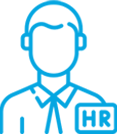
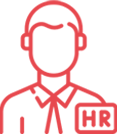
Add files via upload

Changed region(s): [[0.0, 0.0, 1.0, 1.0], [0.1538, 0.8657, 0.2308, 1.0]]

diff --git a/css/style.css b/css/style.css
@@ -16,7 +16,7 @@ a{
 .home-btn a{
     font-family: 'Poppins', sans-serif;
     font-weight: 500;
-    background: #04a6e1;
+    background: #8d8d8d;
     color: #fff;
     padding: 10px 15px;
     border-radius: 25px;
@@ -52,7 +52,7 @@ a{
     position: relative;
     width: 100%;
     height: 160px;
-    background: #04a6e1;
+    background: #8d8d8d;
     border-top-left-radius: 20px;
     border-top-right-radius: 20px;
 }
@@ -121,7 +121,7 @@ a{
     box-shadow: 0px 5px 20px 0px #e0e0e0;
 }
 .quick-links a:hover{
-    background: #3aae2a;
+    background: #58595b;
     color: #fff;
     transition: 0.5s ease-in-out;
 }
@@ -208,13 +208,13 @@ a{
     box-shadow: 0px 5px 20px 0px #e0e0e0;
 }
 .module-box:hover .module-text{
-    background: #3aae2a;
-    border: 1px solid #3aae2a;
+    background: #58595b;
+    border: 1px solid #58595b;
     transition: 0.5s ease-in-out;
 }
 .module-icon{
     background: #fff;
-    border: 1px solid #04a6e1;
+    border: 1px solid #8d8d8d;
     border-top-left-radius: 20px;
     border-top-right-radius: 20px;
     padding: 30px 60px;
@@ -225,8 +225,8 @@ a{
     height: 75px;
 }
 .module-text{
-    background: #04a6e1;
-    border: 1px solid #04a6e1;
+    background: #8d8d8d;
+    border: 1px solid #8d8d8d;
     border-bottom-left-radius: 20px;
     border-bottom-right-radius: 20px;
 }
@@ -252,8 +252,8 @@ a{
     height: 120px;
     line-height: 55px;
     margin: 15px auto;
-    background: #04a6e1;
-    border: 1px solid #04a6e1;
+    background: #8d8d8d;
+    border: 1px solid #8d8d8d;
     border-radius: 50%;
     padding: 30px;
     text-align: center;
@@ -264,7 +264,7 @@ a{
     left: -11px;
     width: 140px;
     height: 140px;
-    border: 1px solid #04a6e1;
+    border: 1px solid #8d8d8d;
     border-radius: 50%;
 }
 .inner-module-box .module-icon img{
@@ -343,6 +343,15 @@ a{
 .announcement-links .announcement a:hover{
     background: none;
 }
+.inner-cards a:hover .module-icon{
+    background-color: #58595b;
+    border-color: #58595b;
+    transition: 0.5s ease-in-out;
+}
+.inner-cards a:hover .module-icon .round-ouline{
+    border-color: #58595b;
+    transition: 0.5s ease-in-out;
+}
 /* RESPONSIVE CSS HERE */
 /* 
   ##Device = Desktops
@@ -405,7 +414,7 @@ a{
     }
     .profile-logo{
         top: 102px;
-        left: 332px;
+        left: 81%;
     }
     .modules-body{
         width: 57% !important;

diff --git a/index.html b/index.html
@@ -125,7 +125,7 @@
                         <div class="modules-text">
                             <div class="row mt-4">
                                 <div class="col-md-4 mb-4">
-                                    <a href="admin.html" target="_blank">
+                                    <a href="admin.html">
                                         <div class="module-box">
                                             <div class="module-icon">
                                                 <img src="img/icon-1.png" alt="icon-1" class="img-fluid">
@@ -140,7 +140,7 @@
                                     </a>
                                 </div>
                                 <div class="col-md-4 mb-4">
-                                    <a href="hr-general.html" target="_blank">
+                                    <a href="hr-general.html">
                                         <div class="module-box">
                                             <div class="module-icon">
                                                 <img src="img/icon-2.png" alt="icon-2" class="img-fluid">
@@ -155,7 +155,7 @@
                                     </a>
                                 </div>
                                 <div class="col-md-4 mb-4">
-                                    <a href="hr-internal.html" target="_blank">
+                                    <a href="hr-internal.html">
                                         <div class="module-box">
                                             <div class="module-icon">
                                                 <img src="img/icon-3.png" alt="icon-3" class="img-fluid">
@@ -170,7 +170,7 @@
                                     </a>
                                 </div>
                                 <div class="col-md-4 mb-4">
-                                    <a href="employee-per.html" target="_blank">
+                                    <a href="employee-per.html">
                                         <div class="module-box">
                                             <div class="module-icon">
                                                 <img src="img/icon-4.png" alt="icon-4" class="img-fluid">
